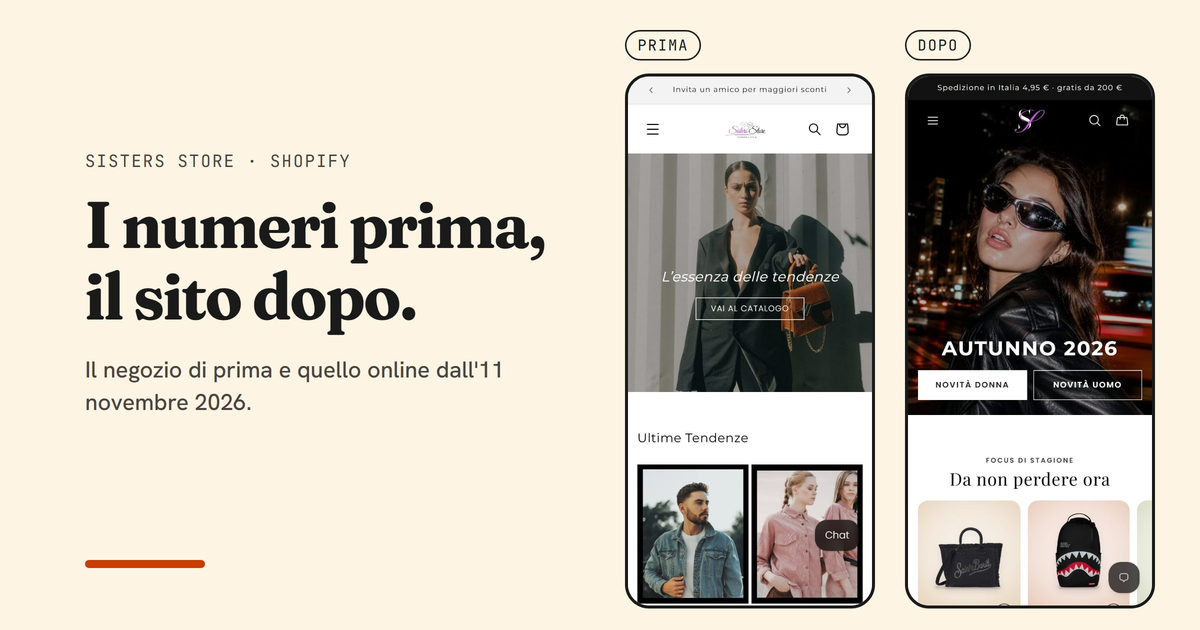
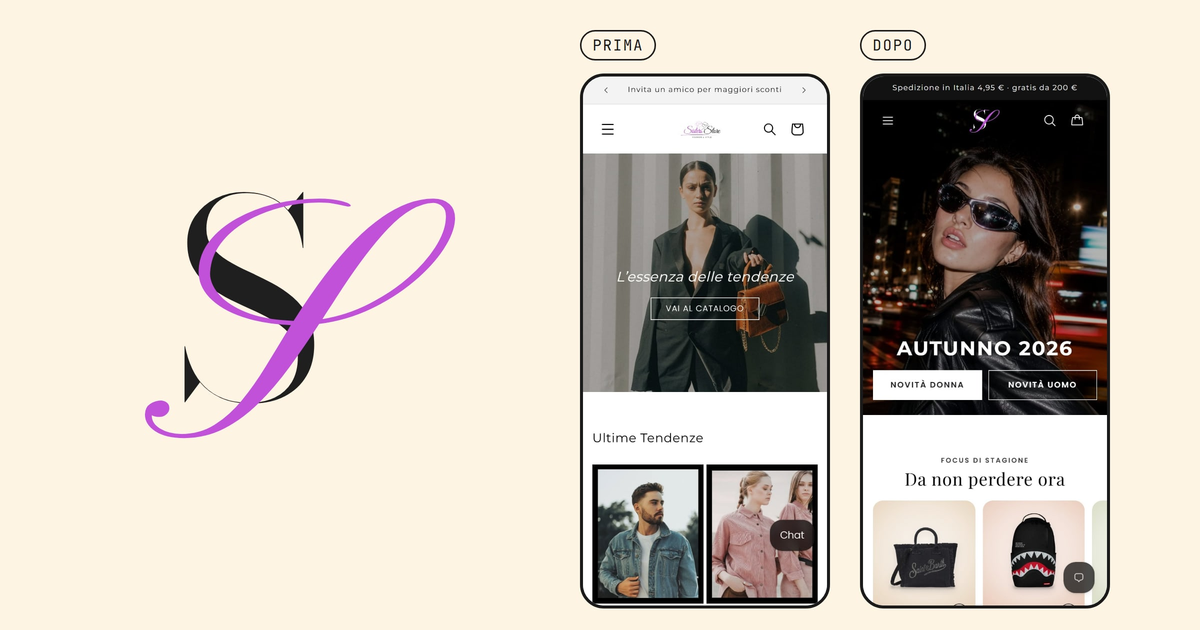
feat(sisters): titolo Creazione e rebranding, nome sopra il titolo, copertina col monogramma
- Titolo "Creazione e rebranding" in card, pagina, title e og:title.
- Sopra il titolo "Sisters Store · decisione": il nome sta nel campo
  tipo, che si stampa prima della lente, come "Branding concept" sui
  due concept. Commento dello schema aggiornato.
- Copertina senza testi: monogramma SS nei suoi colori a sinistra e i
  due telefoni prima e dopo, sul crema. Tutto tra x 280 e 2220: la card
  grande taglia i lati e il telefono Dopo perdeva il bordo destro.
  og rifatta dalla copertina. Nuovo coverAlt.
- test-progetti: titolo, nome sopra il titolo, title e og:title.
- caso-reale.md (microcopy), STATO e STORIA aggiornati.

Changed region(s): [[0.0617, 0.0302, 0.9867, 0.9651], [0.0617, 0.2413, 0.2775, 0.2714], [0.0617, 0.8746, 0.185, 0.9048]]

diff --git a/src/content.config.ts b/src/content.config.ts
@@ -38,7 +38,10 @@ const progetti = defineCollection({
     return z.object({
       titolo: z.string(),
       slug: z.string(),
-      /** Il tipo di progetto (per esempio "Branding concept"): sta prima della lente, in card e in pagina. */
+      /**
+       * Il tipo di progetto (per esempio "Branding concept") o, per un negozio vero, il suo nome
+       * ("Sisters Store"): sta prima della lente, in card e in pagina.
+       */
       tipo: z.string().optional(),
       /** Riga sotto il titolo della pagina (per esempio: progetto inventato, foto generate con l'AI). */
       nota: z.string().optional(),

diff --git a/docs/STATO.md b/docs/STATO.md
@@ -1,13 +1,13 @@
 # Stato del progetto
 
-**Fase corrente:** ramo `progetti-nuovi`, punto 1 fatto (2026-11-18): il caso reale è Sisters Store, con nome, link, logo e il sito nuovo prima e dopo. Prossimo: punto 2, concept palestra e pizzeria dalle bozze. Prima: URL senza barra finale ovunque (2026-10-05), dopo `/contatti` a due percorsi e pagina `/privacy` fatti (2026-09-30), dopo la chiusura della prova sfondi, la nuova figura e i nuovi testi di "Cosa faccio per te" dello stesso giorno, dopo il blocco modifiche dello stesso giorno, il blocco testi e carosello e la passata prestazioni, blocco A (2026-09-29). Fase 4 annullata.
+**Fase corrente:** ramo `progetti-nuovi`, punto 1 fatto (2026-11-18): il caso reale è Sisters Store, con nome, link, logo e il sito nuovo prima e dopo. Giro di testi e home (2026-11-19): una frase sola sotto "Progetti", Sisters Store diventa "Creazione e rebranding" con copertina senza testi; in corso la scena dell'hero senza il tabellino (quattro proposte, D1/D2 desktop e M1/M2 telefono, in attesa della scelta). Poi: punto 2, concept palestra e pizzeria dalle bozze. `main` è aperto in un worktree a parte (`D:\dev\portfolio-main`, sessione delle bozze): il merge di `main` in `progetti-nuovi` si fa alla fine. Prima: URL senza barra finale ovunque (2026-10-05), dopo `/contatti` a due percorsi e pagina `/privacy` fatti (2026-09-30), dopo la chiusura della prova sfondi, la nuova figura e i nuovi testi di "Cosa faccio per te" dello stesso giorno, dopo il blocco modifiche dello stesso giorno, il blocco testi e carosello e la passata prestazioni, blocco A (2026-09-29). Fase 4 annullata.
 
 La storia delle fasi finite (cosa è stato fatto, come e perché, misure e decisioni di dettaglio)
 è in `docs/STORIA.md`. Qui restano solo lo stato attuale e i lavori da fare.
 
 ## Sito oggi
 - **Home:** hero con switch tra i due percorsi (scelta in `localStorage`, `html[data-target]`) e scena scrivania, griglia progetti con ordine per percorso, "Cosa faccio per te" (solo percorso business, con la L del marchio che si costruisce riga dopo riga), carosello dei loghi su fondo ink (l'unica sezione della home su fondo scuro), invito al contatto.
-- **Progetti:** caso reale Sisters Store (`/progetti/sisters-store`, sei capitoli, due slider prima/dopo, link a sistersstore.it) e i concept Fornace Vietri e pizzeria Vico Stretto, etichettati "Branding concept", con foto generate con l'AI. Dettaglio in `/progetti/[slug]`.
+- **Progetti:** sotto il titolo della sezione una frase sola per i due percorsi, "Ecco una panoramica dei miei progetti.". Caso reale Sisters Store, titolo "Creazione e rebranding" con "Sisters Store · decisione" sopra (campo `tipo`) (`/progetti/sisters-store`, sei capitoli, due slider prima/dopo, link a sistersstore.it) e i concept Fornace Vietri e pizzeria Vico Stretto, etichettati "Branding concept", con foto generate con l'AI. Dettaglio in `/progetti/[slug]`.
 - **Loghi:** `/loghi` con filtri e `/loghi/[slug]`, quattro loghi con testi provvisori. Sisters Store ha il monogramma SS e, nel prima e dopo, il logo corsivo di prima (tipo "progetto": "rebranding" stamperebbe la frase di non affiliazione). Nessuna etichetta "Progetto", né a vista né nell'alt: il campo `tipo` resta nei dati per l'etichetta "Esercizio di stile".
 - **Nav:** Progetti, Come lavoro, Loghi e "Scrivimi" (unico accesso ai contatti, in pillola anche su telefono; sotto i 340px senza bordo). Il quarto di cerchio del marchio ruota al passaggio, col focus e al tocco.
 - **Altre pagine:** `/come-lavoro` (processo, stack, progetto n°5, "Il mio processo creativo"), `/contatti` (diversa per i due percorsi, vedi sotto), `/privacy`, 404, sitemap, robots, og-image, `vercel.json`.
@@ -16,7 +16,7 @@ La storia delle fasi finite (cosa è stato fatto, come e perché, misure e decis
 
 - **Contatti (2026-09-30).** In cima lo stesso switch dell'hero, con la stessa scelta salvata: se c'è è preselezionata, se manca la pagina la chiede e non mostra nessun percorso (`html[data-scelto]`, scritto dallo script in `Base.astro`). "Vuoi vendere online": modulo a passi (`ContattiBusiness.astro`), una domanda per schermata, indicatore "1 di 3" in aria-live, focus sulla domanda nuova, Indietro che conserva le risposte, un solo invio alla fine. "Cerchi uno sviluppatore": email, LinkedIn e GitHub in evidenza e modulo corto (`ContattiDev.astro`). Helper condivisi in `src/scripts/modulo.ts`, stili in `src/styles/modulo.css`. Senza JavaScript i moduli sono normali e il POST nativo funziona.
 - **Hero e percorsi (2026-10-03).** Le righe, i bottoni e la prova dell'hero (`[data-only]`) del percorso non attivo hanno anche l'attributo `hidden`, oltre al `display: none` del CSS: lo aggiorna lo script di `Hero.astro` con un osservatore su `html[data-target]` (a ogni cambio, all'avvio e dopo le View Transitions). Description della home: "Luigi Romano, web developer a Napoli. Realizzo siti e negozi online per le attività e resto al loro fianco anche dopo la consegna." Nuovo token "titolo lungo" (`--leading-titolo-lungo`, 1.3, per titoli e aperture oltre 3 righe su mobile) usato solo da `.servizi__apertura`; le righe dell'hero restano a 1.2. `Button.astro` ha `target` e `rel` nelle Props.
-- **Sisters Store (2026-11-18).** Il caso reale ha il nome vero (regola 8). Indirizzi vecchi `/progetti/caso-reale` e `/loghi/boutique` reindirizzati (vercel.json e astro.config). Capitoli: Contesto, Decisione, Cosa ho fatto nella fase 1, Il risultato della fase 1, Il sito nuovo (home, scheda prodotto, collezioni, identità), Cosa ho imparato. Schermate vere da `scripts/cattura-sisters.mjs` ("prima" = tema "Sito Ufficiale" in anteprima, prodotti di oggi), loghi e copertina da `scripts/prepara-sisters.mjs`. Dettagli in `docs/STORIA.md`.
+- **Sisters Store (2026-11-18).** Il caso reale ha il nome vero (regola 8). Indirizzi vecchi `/progetti/caso-reale` e `/loghi/boutique` reindirizzati (vercel.json e astro.config). Capitoli: Contesto, Decisione, Cosa ho fatto nella fase 1, Il risultato della fase 1, Il sito nuovo (home, scheda prodotto, collezioni, identità), Cosa ho imparato. Schermate vere da `scripts/cattura-sisters.mjs` ("prima" = tema "Sito Ufficiale" in anteprima, prodotti di oggi), loghi e copertina da `scripts/prepara-sisters.mjs`. Dal 2026-11-19 la copertina non ha testi: monogramma SS a sinistra e i due telefoni prima e dopo, tutto tra x 280 e 2220 perché la card grande taglia i lati. Slider della home da desktop che parte al 10% (si legge "AUTUNNO 2026"). Dettagli in `docs/STORIA.md`.
 - **Caso reale aggiornato (2026-10-03).** Dati giugno–settembre 2026 in `docs/content/caso-reale.md` (la fonte) e in `src/content/progetti/caso-reale.md`: conversione del sito da 0,19% a 0,50% (circa 2,6 volte), visite calate da circa 3.650 a circa 1.800 al mese, valore medio ordine +37%, 93% da mobile, canali 66/30/4, borse e zaini oltre l'80% del fatturato. Tre tessere (`CasoDati.astro`), grafico della conversione mensile (`RampChart.astro`), funnel con i totali del periodo (`Funnel.astro`, 12.025 → 511 → 391 → 39). Il testo non attribuisce la crescita agli interventi. Niente fatturato in euro. La riga della prova nell'hero (percorso business) dice "Su un negozio reale, da giugno a settembre, 2,6 volte più acquisti ogni 100 visite", con "negozio reale" che porta al caso; la controlla `test-switch`. Le immagini `caso-riepilogo` e `caso-fase2-identita` (desktop e mobile) sono fuori dalla pagina, vedi "Da fare".
 - Test permanenti: `test-hero-hidden` (390 e 1280, `hidden` sulle varianti dell'hero all'avvio, dopo ogni cambio di percorso e dopo una navigazione interna), `test-contatti` (390 e 1280, due percorsi, senza JavaScript, invii a Formspree intercettati), `test-switch`, `test-scena`, `test-etichette`, `test-progetti`, `test-pagine` (390 e 1280, con i due redirect di Sisters Store), `test-nav` (320, 360, 390, 430, 768, 1280 più le rotazioni), `test-forme` (320, 390, 768, 1024, 1280), `test-loghi` (390 touch e 1280), `test-percorsi` (390 e 1280, due percorsi), `test-carosello` (390 touch e 1280, reduced-motion, senza JavaScript), tutti verdi.
 

diff --git a/src/content/progetti/sisters-store.md b/src/content/progetti/sisters-store.md
@@ -3,8 +3,10 @@
 # prima del sito nuovo. Il periodo è sempre scritto accanto ai numeri.
 # [DA CONFRONTARE A DICEMBRE] a metà dicembre si aggiungono i numeri del sito nuovo (online dall'11
 # novembre 2026), senza sostituire quelli della fase 1: cerca questa sigla nel repo per trovarli tutti.
-titolo: "I numeri prima, il sito dopo."
+titolo: "Creazione e rebranding"
 slug: sisters-store
+# il nome del negozio sta nel campo tipo: si legge sopra il titolo, prima della lente
+tipo: "Sisters Store"
 sito:
   testo: sistersstore.it
   url: https://sistersstore.it
@@ -16,7 +18,7 @@ tags:
   - Catalogo
   - Mobile
 cover: ../../assets/progetti/sisters-store/sisters-copertina.jpg
-coverAlt: "Il titolo I numeri prima, il sito dopo. e la riga Il negozio di prima e quello online dall'11 novembre 2026. Accanto due telefoni con la home di Sisters Store. Prima, il logo corsivo e una foto con la scritta L'essenza delle tendenze e il bottone Vai al catalogo. Dopo, il monogramma SS e una foto di notte con il titolo Autunno 2026 e i bottoni Novità donna e Novità uomo."
+coverAlt: "Il monogramma SS di Sisters Store e due telefoni con la home del negozio. Prima, il logo corsivo e una foto con la scritta L'essenza delle tendenze e il bottone Vai al catalogo. Dopo, il monogramma SS e una foto di notte con il titolo Autunno 2026 e i bottoni Novità donna e Novità uomo."
 # [DA CONFRONTARE A DICEMBRE] sommario_business e sintesi_business
 sommario: "Sisters Store, borse, zaini e abbigliamento di marca. Prima i dati e quattro interventi su Shopify, poi il sito nuovo, online dall'11 novembre 2026."
 sommario_business: "Sisters Store, borse e zaini. Da giugno a settembre 2026 la conversione del sito è passata da 0,19% a 0,50%. Poi il sito nuovo, online dall'11 novembre."

diff --git a/docs/STORIA.md b/docs/STORIA.md
@@ -453,6 +453,22 @@ lavori da fare stanno in `docs/STATO.md`.
     controlla sei capitoli, il link, le quattro parti del sito nuovo, i due slider (misure,
     ordine, larghezza) e nessuna immagine vecchia; `test-pagine` i due redirect. Regola 8 del
     `CLAUDE.md` aggiornata, `docs/content/caso-reale.md` riscritto senza anonimato.
+  - **Slider** (`2a2b2cc`, 2026-11-19). Il pallino stava in cima: la traccia del range era alta
+    100% e il pollice si allinea in alto nella traccia. Ora la traccia è alta quanto il pallino
+    (34px) e il browser la centra nel range. Parametro `posizione` in `BeforeAfter.astro`: la home
+    da desktop parte al 10% e non al 35% chiesto, perché "AUTUNNO 2026" comincia al 12% della
+    larghezza e al 35% si leggeva solo "NO 2026". Luigi ha confermato il 10%.
+- **Giro di testi e home (2026-11-19).** Ramo `progetti-nuovi`.
+  - **Progetti** (`1124b77`). Una frase sola sotto il titolo, per tutti e due i percorsi: "Ecco
+    una panoramica dei miei progetti."
+  - **Sisters Store.** Titolo "Creazione e rebranding" (card, h1, `<title>`, og:title). Il nome
+    del negozio sta nel campo `tipo`, che si stampa prima della lente: "Sisters Store · decisione",
+    come "Branding concept · sistema" sugli altri due. Copertina senza testi: monogramma SS
+    (`sisters-logo-monogramma.svg`, nei suoi colori) a sinistra e i due telefoni a destra, sul
+    crema. Telefoni spostati di 90px verso il centro: la card grande da desktop taglia i lati della
+    copertina e il telefono Dopo perdeva il bordo destro (succedeva anche con la copertina vecchia).
+    og rifatta dalla copertina. Il controllo "Non affiliato" assente sui loghi di tipo progetto
+    c'era già in `test-loghi`.
 
 ## Correzioni dall'audit (2026-09-21)
 

diff --git a/docs/content/caso-reale.md b/docs/content/caso-reale.md
@@ -68,5 +68,7 @@ resta nel nome del logo, nell'hero e nei numeri."
 - Il traffico social in-app non viene tracciato bene: i tassi sono un pavimento, non una misura.
 
 ## Microcopy
-Titolo: "I numeri prima, il sito dopo."
+Titolo: "Creazione e rebranding" (dal 2026-11-19; prima "I numeri prima, il sito dopo.").
+Sopra il titolo, in card e in pagina: "Sisters Store · decisione" (campo `tipo`).
+Copertina senza testi: il monogramma SS e i due telefoni prima e dopo.
 Tag: Shopify · Analytics · Catalogo · Mobile
